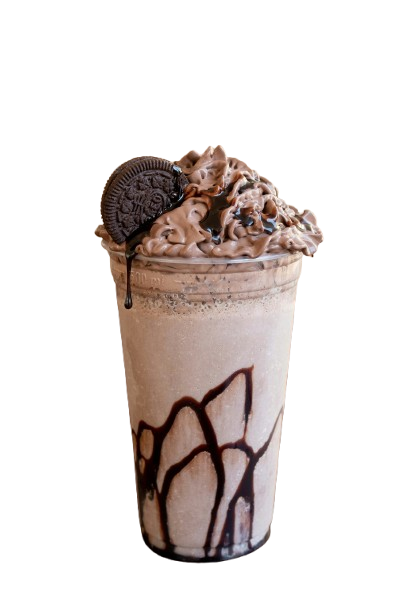
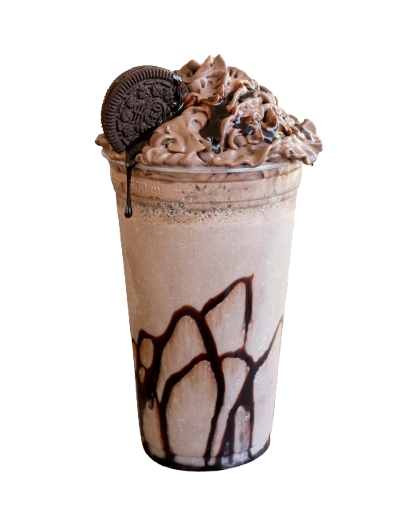
ganti bg jumbo

Changed region(s): [[0.2353, 0.0921, 0.7941, 0.9213]]

diff --git a/src/components/home.vue b/src/components/home.vue
@@ -5,112 +5,6 @@ import jumbotron from "./jumbotron/jumbotron.vue";
 import content1 from "./order/content1.vue";
 import systemOrder from "./order/systemOrder.vue";
 import footerr from "./footer/footer.vue";
-
-// Imgage
-import pangsit5 from "../assets/images/pangsit5.jpg";
-import pangsit7 from "../assets/images/pangsit7.jpg";
-import basomini from "../assets/images/basomini.png";
-import basoberurat from "../assets/images/basoberurat.png";
-import esteh from "../assets/images/esteh.jpg";
-
-// Product
-// let products = ref([
-//   {
-//     id: 1,
-//     image: pangsit5,
-//     name: "pangsit",
-//     text: `
-//     pilih sesuai selera kamu <br>
-//     1. Pangcuy Dowerr <br>
-//     2. Pangcuy Chill oil <br>
-//     3. Pangcuy Goreng <br>
-//     4. Pangcuy Kuah`,
-//     price: 13000,
-//   },
-//   {
-//     id: 2,
-//     image: pangsit7,
-//     name: "mie dower",
-//     text: "Sensasi level pedas mulai dari level 1 sampai 3",
-//     price: 10000,
-//   },
-//   {
-//     id: 3,
-//     image: basomini,
-//     text: "Ciri khas baso dengan ukuran kecil",
-//     name: "baso mini",
-//     price: 8000,
-//   },
-//   {
-//     id: 4,
-//     image: basoberurat,
-//     text: "Baso berurat home made",
-//     name: "baso berurat",
-//     price: 13000,
-//   },
-//   {
-//     id: 5,
-//     image: esteh,
-//     text: "ES Teh Manis Seger 300 ML",
-//     name: "ES Teh Manis",
-//     price: 3000,
-//   },
-// ]);
-
-// JS Orderr
-// import { quantityKeranjang } from "./order/quantityCart.js";
-
-// Fungsi order
-// function order(event, product) {
-//   event.preventDefault();
-//   // Find
-//   let cartItem = quantityKeranjang.cartProduct.find((products) => {
-//     return product.id == products.id;
-//   });
-
-//   // cek
-//   // IF !cartproduct kosong
-//   if (quantityKeranjang.cartProduct != 0) {
-//     // FIND
-//     if (!cartItem) {
-//       quantityKeranjang.cartProduct.push({
-//         ...product,
-//         quantity: 1,
-//         total: product.price,
-//       });
-//       quantityKeranjang.count++;
-//       quantityKeranjang.totalHarga += product.price;
-//     } else {
-//       // jika ada barang yang sama
-//       let elseAddProductNotIdSame = quantityKeranjang.cartProduct.map(
-//         (products) => {
-//           let productSementara = products;
-//           // Jika product yang di kirim client == cartProduct.count
-//           if (product.id == products.id) {
-//             quantityKeranjang.count++;
-//             productSementara.quantity++;
-//             productSementara.total =
-//               productSementara.price * productSementara.quantity;
-//             quantityKeranjang.totalHarga += product.price;
-//           }
-//           // return semua product
-//           return productSementara;
-//         }
-//       );
-//       // di isi array baru
-//       quantityKeranjang.cartProduct = elseAddProductNotIdSame;
-//     }
-//   } else {
-//     quantityKeranjang.cartProduct.push({
-//       ...product,
-//       quantity: 1,
-//       total: product.price,
-//     });
-//     quantityKeranjang.count++;
-//     quantityKeranjang.totalHarga += product.price;
-//     quantityKeranjang.keranjangNotEmpty = false;
-//   }
-// }
 </script>
 
 <template>

diff --git a/src/components/order/systemOrder.vue b/src/components/order/systemOrder.vue
@@ -2,14 +2,16 @@
 import { ref } from "vue";
 
 // Imgage
-import pangsit5 from "../../assets/images/pangsit5.jpg";
-import pangsit7 from "../../assets/images/pangsit7.jpg";
+import pangsit from "../../assets/images/pangsit.png";
+import mie from "../../assets/images/mie.png";
 import basomini from "../../assets/images/basomini.png";
-import basoberurat from "../../assets/images/basoberurat.png";
+import baksoUrat from "../../assets/images/baksoUrat.png";
 import esteh from "../../assets/images/esteh.jpg";
 import esJeruk from "../../assets/images/esJeruk.png";
 import esCoklat from "../../assets/images/esCoklat.png";
 import kentangGoreng from "../../assets/images/kentangGoreng.png";
+import kerang from "../../assets/images/kerang.png";
+import udangRebus from "../../assets/images/udangRebus.png";
 
 // quantityKeranjang
 import { quantityKeranjang } from "./quantityCart.js";
@@ -18,22 +20,17 @@ import { quantityKeranjang } from "./quantityCart.js";
 let products = ref([
   {
     id: 1,
-    image: pangsit5,
+    image: pangsit,
     name: "pangsit",
-    text: `
-    pilih sesuai selera kamu : <br>
-    1. Pangcuy Dowerr <br>
-    2. Pangcuy Chill oil <br>
-    3. Pangcuy Goreng <br>
-    4. Pangcuy Kuah`,
+    text: `pangsit rebus pedas reguler`,
     price: 13000,
   },
   {
     id: 2,
-    image: pangsit7,
+    image: mie,
     name: "mie dower",
     text: "Sensasi level pedas mulai dari level 1 sampai 3",
-    price: 10000,
+    price: 12000,
   },
   {
     id: 3,
@@ -44,7 +41,7 @@ let products = ref([
   },
   {
     id: 4,
-    image: basoberurat,
+    image: baksoUrat,
     text: "Baso berurat home made",
     name: "baso urat",
     price: 13000,
@@ -76,6 +73,20 @@ let products = ref([
     text: "Kentang Goreng crispyy renyah",
     name: "Kentang",
     price: 12000,
+  },
+  {
+    id: 9,
+    image: kerang,
+    text: "kerang rebus kuah manis",
+    name: "Kerang",
+    price: 25000,
+  },
+  {
+    id: 10,
+    image: udangRebus,
+    text: "udang Rebus kuah manis",
+    name: "udang Rebus",
+    price: 25000,
   },
 ]);
 

diff --git a/src/components/jumbotron/jumbotron.vue b/src/components/jumbotron/jumbotron.vue
@@ -2,9 +2,9 @@
 import { ref } from "vue";
 import feather from "feather-icons";
 
-import pangsit2 from "../../assets/images/pangsit2.png";
+import pangsit2 from "../../assets/images/pangsit.png";
 import pangsit1 from "../../assets/images/pangsit1.png";
-import tehManes from "../../assets/images/tehManes.png";
+import esCoklat from "../../assets/images/esCoklat.png";
 
 const chevron_left = feather.icons["chevron-left"].toSvg({
   width: 40,
@@ -34,10 +34,10 @@ const imageJumbo = ref([
   },
   {
     id: 3,
-    img: tehManes,
-    textHeadJumbo: "tehManes",
+    img: esCoklat,
+    textHeadJumbo: "esCoklat",
     textJumbo:
-      "Rasa bukanlah secangkir teh hangat, yang sewaktu-waktu beranjak dingin,Semanis-manisnya kamu, lebih manis teh yang ketumpahan gula",
+      "Es coklat memiliki rasa manis dan aroma khas cokelat yang kuat. Es coklat bisa dinikmati sebagai hidangan penutup atau dessert",
   },
 ]);
 

diff --git a/src/assets/styleCss/jumbotron/jumbotron.css b/src/assets/styleCss/jumbotron/jumbotron.css
@@ -9,10 +9,16 @@
   width: 100%;
   height: 100vh;
   position: relative;
-  background-image: url("@/assets/images/bgjumbo.jpg");
+  background-image: url("@/assets/images/bgJumbo1.jpg");
   background-repeat: no-repeat;
   background-position: center;
   background-size: cover;
+  filter: blur(1px);
+  transition: 0.5s;
+}
+
+.jumbo .container-fluid:hover {
+  filter: blur(0);
 }
 
 .jumbo .container-fluid .row {
@@ -64,11 +70,10 @@
   font-weight: 500;
   font-family: courier;
   font-weight: 500;
-  padding-top: 0;
-  margin-bottom: 0;
 }
 
 .jumbo .container-fluid .iconleftFeater {
+  cursor: pointer;
   color: white;
   position: absolute;
   z-index: 9999;
@@ -77,6 +82,7 @@
 }
 
 .jumbo .container-fluid .iconRigthFeater {
+  cursor: pointer;
   color: white;
   position: absolute;
   z-index: 9999;

diff --git a/src/assets/styleCss/product/product.css b/src/assets/styleCss/product/product.css
@@ -1,5 +1,4 @@
 /* CARD */
-.card-title
 /* Content-2 */
 body .content-2 {
   margin: auto;
@@ -48,7 +47,7 @@ body .content-2 .baris-2 .col {
 body .content-2 .baris-2 .col .card {
   padding: 10px;
   width: 230px;
-  transition: 0.5s;
+  transition: 0.8s;
 }
 
 body .content-2 .baris-2 .col .card:hover {
@@ -57,13 +56,15 @@ body .content-2 .baris-2 .col .card:hover {
 }
 
 body .content-2 .baris-2 img {
+  cursor: pointer;
   object-fit: cover;
   width: 100%;
   height: 150px;
+  transition: 0.8s;
 }
 
 body .content-2 .baris-2 img:hover {
-  transition: 300ms;
+  height: auto;
   transform: scale(1.15);
 }
 

diff --git a/src/assets/styleCss/jumbotron/jumbotronResponsive.css b/src/assets/styleCss/jumbotron/jumbotronResponsive.css
@@ -6,11 +6,11 @@
   }
 
   .jumbo .container-fluid .row .colomn-1 {
-    padding-top: 50px;
+    /* padding-top: 50px; */
   }
 
   .jumbo .container-fluid .imageJumbo {
-    width: 380px;
+    width: 300px;
   }
 
   .jumbo .container-fluid .row .colomn-2 div .textHeadJumbo {

diff --git a/src/assets/styleCss/content1/content1.css b/src/assets/styleCss/content1/content1.css
@@ -2,7 +2,8 @@
 
 body .content-1 .containerr {
   padding: 0;
-  background-color: #212121;
+  /* background-color: #212121; */
+  background: linear-gradient(to bottom, black, #201e1e);
 }
 
 body .content-1 .containerr h1 {

diff --git a/src/assets/styleCss/footer.css b/src/assets/styleCss/footer.css
@@ -1,5 +1,6 @@
 footer {
   padding-top: 1.5rem;
+  margin-top: 300px;
 }
 
 footer .containerr {
